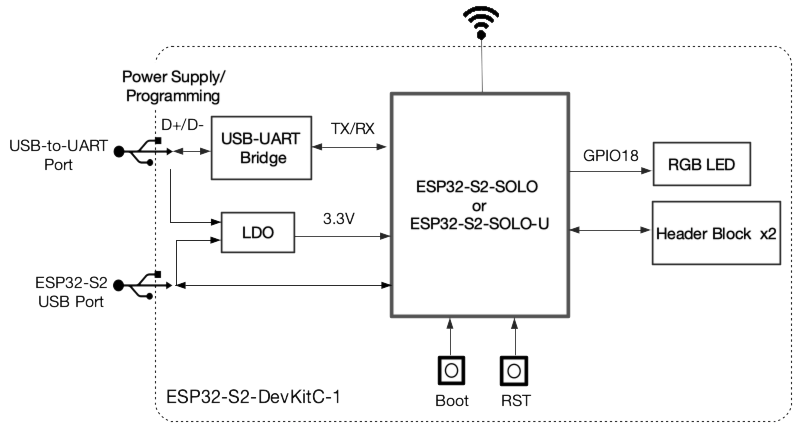
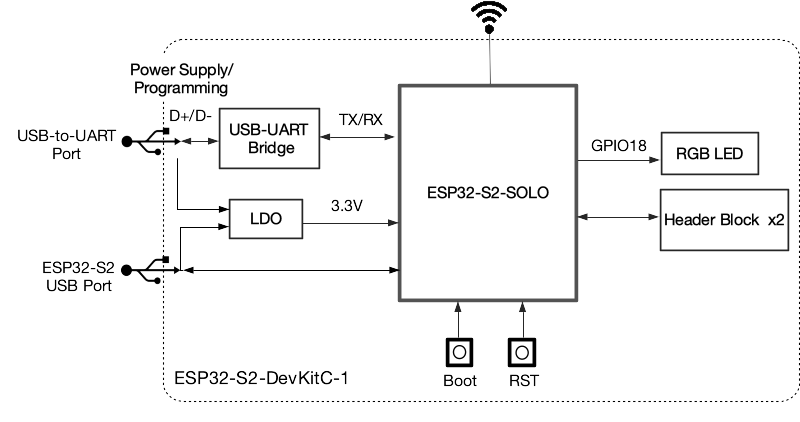
Docs: Updated ESP32-S2-DevKitC-1 User Guide for ECO1

diff --git a/docs/en/hw-reference/esp32s2/user-guide-s2-devkitc-1.rst b/docs/en/hw-reference/esp32s2/user-guide-s2-devkitc-1.rst
@@ -6,9 +6,7 @@ ESP32-S2-DevKitC-1
 
 This user guide will help you get started with ESP32-S2-DevKitC-1 and will also provide more in-depth information.
 
-ESP32-S2-DevKitC-1 is an entry-level development board based on ESP32-S2-SOLO (on-board PCB antenna) or ESP32-S2-SOLO-U (external antenna connector), which are two general-purpose modules with a 4 MB SPI flash. This board integrates complete Wi-Fi functions.
-
-Most of the I/O pins are broken out to the pin headers on both sides for easy interfacing. Developers can either connect peripherals with jumper wires or mount ESP32-S2-DevKitC-1 on a breadboard.
+ESP32-S2-DevKitC-1 is an entry-level development board. This board integrates complete Wi-Fi functions. Most of the I/O pins are broken out to the pin headers on both sides for easy interfacing. Developers can either connect peripherals with jumper wires or mount ESP32-S2-DevKitC-1 on a breadboard.
 
 .. figure:: ../../../_static/esp32-s2-devkitc-1-v1-isometric.png
     :align: center
@@ -49,8 +47,8 @@ The key components of the board are described in a clockwise direction.
 
    * - Key Component
      - Description
-   * - ESP32-S2-SOLO or ESP32-S2-SOLO-U
-     - ESP32-S2-SOLO and ESP32-S2-SOLO-U are two general-purpose Wi-Fi modules. ESP32-S2-SOLO comes with an on-board PCB antenna and ESP32-S2-SOLO-U comes with a connector for an external antenna. ESP32-S2-SOLO or ESP32-S2-SOLO-U on the board may come either with a 4 MB flash, or a 4 MB flash plus a 2 MB PSRAM embedded in the chip.
+   * - On-board module (ESP32-S2-SOLO or ESP32-S2-SOLO-U in the above figure)
+     - ESP32-S2-SOLO series modules with an on-board PCB antenna or a connector for an external antenna. This series of modules have multiple options for flash and PSRAM size. For more information, please refer to :ref:`user-guide-s2-devkitc-1-v1-ordering-info`.
    * - 3.3 V Power On LED
      - Turns on when the USB power is connected to the board.
    * - USB-to-UART Bridge
@@ -100,6 +98,59 @@ Please proceed to `ESP-IDF Get Started <https://docs.espressif.com/projects/esp-
 Contents and Packaging
 ----------------------
 
+.. _user-guide-s2-devkitc-1-v1-ordering-info:
+
+Ordering Information
+^^^^^^^^^^^^^^^^^^^^
+
+The development board has a variety of variants to choose from, as shown in the table below.
+
+.. list-table::
+   :header-rows: 1
+   :widths: 41 24 9 8 18
+
+   * - Ordering Code
+     - On-board Module [#]_
+     - Flash
+     - PSRAM
+     - Antenna
+   * - ESP32-S2-DevKitC-1-N8R2
+     - ESP32-S2-SOLO-2
+
+       (Recommended)
+     - 8 MB
+     - 2 MB
+     - PCB on-board antenna
+   * - ESP32-S2-DevKitC-1U-N8R2
+     - ESP32-S2-SOLO-2U
+
+       (Recommended)
+     - 8 MB
+     - 2 MB
+     - External antenna connector
+   * - ESP32-S2-DevKitC-1
+     - ESP32-S2-SOLO
+     - 4 MB
+     - ---
+     - PCB on-board antenna
+   * - ESP32-S2-DevKitC-1U
+     - ESP32-S2-SOLO-U
+     - 4 MB
+     - ---
+     - External antenna connector
+   * - ESP32-S2-DevKitC-1R
+     - ESP32-S2-SOLO
+     - 4 MB
+     - 2 MB
+     - PCB on-board antenna     
+   * - ESP32-S2-DevKitC-1RU
+     - ESP32-S2-SOLO-U
+     - 4 MB
+     - 2 MB
+     - External antenna connector
+
+.. [#] The ESP32-S2-SOLO-2 and ESP32-S2-SOLO-2U modules use chip revision v1.0, and the rest use chip revision v0.0. For more information about chip revisions, please refer to `ESP32-S2 Series SoC Errata`_.
+
 Retail orders
 ^^^^^^^^^^^^^
 
@@ -144,36 +195,36 @@ There are three mutually exclusive ways to provide power to the board:
 Header Block
 -------------
 
-The two tables below provide the **Name** and **Function** of the pin headers on both sides of the board (J1 and J3). The pin header names are shown in :ref:`user-guide-s2-devkitc-1-v1-board-front`. The numbering is the same as in the `ESP32-S2-DevKitC-1 Schematic <https://dl.espressif.com/dl/schematics/SCH_ESP32-S2-DEVKITC-1_V1_20210508.pdf>`_ (PDF).
+The two tables below provide the **Name** and **Function** of the pin headers on both sides of the board (J1 and J3). The pin header names are shown in :ref:`user-guide-s2-devkitc-1-v1-board-front`. The numbering is the same as in the `ESP32-S2-DevKitC-1 Schematic`_ (PDF).
 
 J1
 ^^^
-===  ====  ==========  ==========================================================================
-No.  Name  Type [#]_    Function
-===  ====  ==========  ==========================================================================
-1    3V3    P           3.3 V power supply
-2    3V3    P           3.3 V power supply
-3    RST    I           CHIP_PU
-4    4      I/O/T       RTC_GPIO4, GPIO4, TOUCH4, ADC1_CH3
-5    5      I/O/T       RTC_GPIO5, GPIO5, TOUCH5, ADC1_CH4
-6    6      I/O/T       RTC_GPIO6, GPIO6, TOUCH6, ADC1_CH5
-7    7      I/O/T       RTC_GPIO7, GPIO7, TOUCH7, ADC1_CH6
-8    15     I/O/T       RTC_GPIO15, GPIO15, U0RTS, ADC2_CH4, XTAL_32K_P
-9    16     I/O/T       RTC_GPIO16, GPIO16, U0CTS, ADC2_CH5, XTAL_32K_N
-10   17     I/O/T       RTC_GPIO17, GPIO17, U1TXD, ADC2_CH6, DAC_1
-11   18     I/O/T       RTC_GPIO18, GPIO18, U1RXD, ADC2_CH7, DAC_2, CLK_OUT3, RGB LED
-12   8      I/O/T       RTC_GPIO8, GPIO8, TOUCH8, ADC1_CH7
-13   3      I/O/T       RTC_GPIO3, GPIO3, TOUCH3, ADC1_CH2
-14   46     I           GPIO46
-15   9      I/O/T       RTC_GPIO9, GPIO9, TOUCH9, ADC1_CH8, FSPIHD
-16   10     I/O/T       RTC_GPIO10, GPIO10, TOUCH10, ADC1_CH9, FSPICS0, FSPIIO4
-17   11     I/O/T       RTC_GPIO11, GPIO11, TOUCH11, ADC2_CH0, FSPID, FSPIIO5
-18   12     I/O/T       RTC_GPIO12, GPIO12, TOUCH12, ADC2_CH1, FSPICLK, FSPIIO6
-19   13     I/O/T       RTC_GPIO13, GPIO13, TOUCH13, ADC2_CH2, FSPIQ, FSPIIO7
-20   14     I/O/T       RTC_GPIO14, GPIO14, TOUCH14, ADC2_CH3, FSPIWP, FSPIDQS
-21   5V     P           5 V power supply
-22   G      G           Ground
-===  ====  ==========  ==========================================================================
+===  =========  ==========  ==========================================================================
+No.  Name       Type [#]_    Function
+===  =========  ==========  ==========================================================================
+1    3V3         P           3.3 V power supply
+2    3V3         P           3.3 V power supply
+3    RST         I           CHIP_PU
+4    4           I/O/T       RTC_GPIO4, GPIO4, TOUCH4, ADC1_CH3
+5    5           I/O/T       RTC_GPIO5, GPIO5, TOUCH5, ADC1_CH4
+6    6           I/O/T       RTC_GPIO6, GPIO6, TOUCH6, ADC1_CH5
+7    7           I/O/T       RTC_GPIO7, GPIO7, TOUCH7, ADC1_CH6
+8    15          I/O/T       RTC_GPIO15, GPIO15, U0RTS, ADC2_CH4, XTAL_32K_P
+9    16          I/O/T       RTC_GPIO16, GPIO16, U0CTS, ADC2_CH5, XTAL_32K_N
+10   17          I/O/T       RTC_GPIO17, GPIO17, U1TXD, ADC2_CH6, DAC_1
+11   18 [#]_     I/O/T       RTC_GPIO18, GPIO18, U1RXD, ADC2_CH7, DAC_2, CLK_OUT3, RGB LED
+12   8           I/O/T       RTC_GPIO8, GPIO8, TOUCH8, ADC1_CH7
+13   3           I/O/T       RTC_GPIO3, GPIO3, TOUCH3, ADC1_CH2
+14   46          I           GPIO46
+15   9           I/O/T       RTC_GPIO9, GPIO9, TOUCH9, ADC1_CH8, FSPIHD
+16   10          I/O/T       RTC_GPIO10, GPIO10, TOUCH10, ADC1_CH9, FSPICS0, FSPIIO4
+17   11          I/O/T       RTC_GPIO11, GPIO11, TOUCH11, ADC2_CH0, FSPID, FSPIIO5
+18   12          I/O/T       RTC_GPIO12, GPIO12, TOUCH12, ADC2_CH1, FSPICLK, FSPIIO6
+19   13          I/O/T       RTC_GPIO13, GPIO13, TOUCH13, ADC2_CH2, FSPIQ, FSPIIO7
+20   14          I/O/T       RTC_GPIO14, GPIO14, TOUCH14, ADC2_CH3, FSPIWP, FSPIDQS
+21   5V          P           5 V power supply
+22   G           G           Ground
+===  =========  ==========  ==========================================================================
 
 
 J3
@@ -206,12 +257,13 @@ No.  Name  Type    Function
 ===  ====  =====   ============================================================
 
 .. [#] P: Power supply; I: Input; O: Output; T: High impedance.
+.. [#] GPIO18 is not pulled up on boards with an ESP32-S2-SOLO-2 or ESP32-S2-SOLO-2U module.
 
 Pin Layout
 ^^^^^^^^^^^
 .. figure:: ../../../_static/esp32-s2-devkitc-1-v1-pinout.png
     :align: center
-    :scale: 15%
+    :scale: 45%
     :alt: ESP32-S2-DevKitC-1 (click to enlarge)
     :figclass: align-center
 
@@ -224,11 +276,20 @@ This is the first revision of this board released.
 
 Related Documents
 =================
-* `ESP32-S2 Series Chip Datasheet <https://www.espressif.com/sites/default/files/documentation/esp32-s2_datasheet_en.pdf>`_ (PDF)
+
+* `ESP32-S2 Series Chip Revision v1.0 Datasheet`_ (PDF)
+* `ESP32-S2 Series Chip Revision v0.0 Datasheet <https://www.espressif.com/sites/default/files/documentation/esp32-s2_datasheet_en.pdf>`_ (PDF)
+* `ESP32-S2 Series SoC Errata`_ (PDF)
+* `ESP32-S2-SOLO-2 & ESP32-S2-SOLO-2U Module Datasheet <https://www.espressif.com/sites/default/files/documentation/esp32-s2-solo-2_esp32-s2-solo-2u_datasheet_en.pdf>`_ (PDF)
 * `ESP32-S2-SOLO & ESP32-S2-SOLO-U Module Datasheet <https://www.espressif.com/sites/default/files/documentation/esp32-s2-solo_esp32-s2-solo-u_datasheet_en.pdf>`_ (PDF)
-* `ESP32-S2-DevKitC-1 Schematic <https://dl.espressif.com/dl/schematics/SCH_ESP32-S2-DEVKITC-1_V1_20210508.pdf>`_ (PDF)
+* `ESP32-S2-DevKitC-1 Schematic`_ (PDF)
 * `ESP32-S2-DevKitC-1 PCB Layout <https://dl.espressif.com/dl/schematics/PCB_ESP32-S2-DevKitC-1_V1_20210508.pdf>`_ (PDF)
 * `ESP32-S2-DevKitC-1 Dimensions <https://dl.espressif.com/dl/schematics/DXF_ESP32-S2-DevKitC-1_V1_20210511.pdf>`_ (PDF)
 * `ESP32-S2-DevKitC-1 Dimensions source file <https://dl.espressif.com/dl/schematics/DXF_ESP32-S2-DevKitC-1_V1_20210511.dxf>`_ (DXF) - You can view it with `Autodesk Viewer <https://viewer.autodesk.com/>`_ online
 
 For further design documentation for the board, please contact us at `sales@espressif.com <sales@espressif.com>`_.
+
+.. _NRND: https://www.espressif.com/en/products/longevity-commitment?id=nrnd
+.. _ESP32-S2 Series Chip Revision v1.0 Datasheet: https://www.espressif.com/sites/default/files/documentation/esp32-s2-v1.0_datasheet_en.pdf
+.. _ESP32-S2 Series SoC Errata: https://espressif.com/sites/default/files/documentation/esp32-s2_errata_en.pdf
+.. _ESP32-S2-DevKitC-1 Schematic: https://dl.espressif.com/dl/schematics/esp-idf/SCH_ESP32-S2-DEVKITC-1_V1_20220817.pdf

diff --git a/docs/zh_CN/hw-reference/esp32s2/user-guide-s2-devkitc-1.rst b/docs/zh_CN/hw-reference/esp32s2/user-guide-s2-devkitc-1.rst
@@ -1,14 +1,12 @@
-===================
+==================
 ESP32-S2-DevKitC-1
-===================
+==================
 
 :link_to_translation:`en: [English]`
 
 本指南将帮助您快速上手 ESP32-S2-DevKitC-1，并提供该款开发板的详细信息。
 
-ESP32-S2-DevKitC-1 是一款入门级开发板，使用带有 4 MB SPI flash 的 ESP32-S2-SOLO（板载 PCB 天线）或 ESP32-S2-SOLO-U（外部天线连接器）模组。该款开发板具备完整的 Wi-Fi 功能。
-
-板上模组大部分管脚均已引出至两侧排针，开发人员可根据实际需求，轻松通过跳线连接多种外围设备，同时也可将开发板插在面包板上使用。
+ESP32-S2-DevKitC-1 是一款入门级开发板，具备完整的 Wi-Fi 功能。板上模组大部分管脚均已引出至两侧排针，开发人员可根据实际需求，轻松通过跳线连接多种外围设备，同时也可将开发板插在面包板上使用。
 
 .. figure:: ../../../_static/esp32-s2-devkitc-1-v1-isometric.png
     :align: center
@@ -49,8 +47,8 @@ ESP32-S2-DevKitC-1 是一款入门级开发板，使用带有 4 MB SPI flash 的
 
    * - 主要组件
      - 介绍
-   * - ESP32-S2-SOLO 或 ESP32-S2-SOLO-U
-     - ESP32-S2-SOLO 和 ESP32-S2-SOLO-U 是两款通用型 Wi-Fi 模组。ESP32-S2-SOLO 采用 PCB 板载天线，ESP32-S2-SOLO-U 采用连接器连接外部天线。开发板上的 ESP32-S2-SOLO 或 ESP32-S2-SOLO-U 模组可配置 4 MB flash，也可配置 4 MB flash 加 2 MB PSRAM（芯片内置）。
+   * - 板载模组（上图中为 ESP32-S2-SOLO 或 ESP32-S2-SOLO-U）
+     - ESP32-S2-SOLO 系列模组，可搭载 PCB 板载天线或外部天线连接器，支持多种 flash 和 PSRAM 大小。更多信息，详见 :ref:`user-guide-s2-devkitc-1-v1-ordering-info`。
    * - 3.3 V Power On LED（3.3 V 电源指示灯）
      - 开发板连接 USB 电源后，该指示灯亮起。
    * - USB-to-UART Bridge（USB 转 UART 桥接器）
@@ -100,6 +98,59 @@ ESP32-S2-DevKitC-1 是一款入门级开发板，使用带有 4 MB SPI flash 的
 内含组件和包装
 --------------
 
+.. _user-guide-s2-devkitc-1-v1-ordering-info:
+
+订购信息
+^^^^^^^^
+
+该开发板有多种型号可供选择，详见下表。
+
+.. list-table::
+   :header-rows: 1
+   :widths: 35 25 10 10 20
+
+   * - 订购代码
+     - 搭载模组 [#]_
+     - Flash
+     - PSRAM
+     - 天线
+   * - ESP32-S2-DevKitC-1-N8R2
+     - ESP32-S2-SOLO-2
+
+       （推荐）
+     - 8 MB
+     - 2 MB
+     - PCB 板载天线
+   * - ESP32-S2-DevKitC-1U-N8R2
+     - ESP32-S2-SOLO-2U
+
+       （推荐）
+     - 8 MB
+     - 2 MB
+     - 外部天线连接器
+   * - ESP32-S2-DevKitC-1
+     - ESP32-S2-SOLO
+     - 4 MB
+     - ---
+     - PCB 板载天线
+   * - ESP32-S2-DevKitC-1U
+     - ESP32-S2-SOLO-U
+     - 4 MB
+     - ---
+     - 外部天线连接器
+   * - ESP32-S2-DevKitC-1R
+     - ESP32-S2-SOLO
+     - 4 MB
+     - 2 MB
+     - PCB 板载天线     
+   * - ESP32-S2-DevKitC-1RU
+     - ESP32-S2-SOLO-U
+     - 4 MB
+     - 2 MB
+     - 外部天线连接器
+
+.. [#] ESP32-S2-SOLO-2 和 ESP32-S2-SOLO-2U 模组使用 v1.0 版本芯片，其余模组使用 v0.0 版本芯片。更多关于芯片版本的信息，请参考 `《ESP32-S2 系列芯片勘误表》`_。
+
 零售订单
 ^^^^^^^^
 
@@ -144,36 +195,36 @@ ESP32-S2-DevKitC-1 的主要组件和连接方式如下图所示。
 排针 
 ---- 
  
-下表列出了开发板两侧排针（J1 和 J3）的 **名称** 和 **功能**，排针的名称如图 :ref:`user-guide-s2-devkitc-1-v1-board-front` 所示，排针的序号与 `ESP32-S2-DevKitC-1 原理图 <https://dl.espressif.com/dl/schematics/SCH_ESP32-S2-DEVKITC-1_V1_20210508.pdf>`_ (PDF) 一致。 
+下表列出了开发板两侧排针（J1 和 J3）的 **名称** 和 **功能**，排针的名称如图 :ref:`user-guide-s2-devkitc-1-v1-board-front` 所示，排针的序号与 `ESP32-S2-DevKitC-1 原理图`_ (PDF) 一致。 
 
 J1 
 ^^^ 
-==== ====  =========   =========================================================================
-序号 名称  类型 [#]_    功能
-==== ====  =========   =========================================================================
-1    3V3    P          3.3 V 电源
-2    3V3    P          3.3 V 电源
-3    RST    I          CHIP_PU
-4    4      I/O/T      RTC_GPIO4, GPIO4, TOUCH4, ADC1_CH3
-5    5      I/O/T      RTC_GPIO5, GPIO5, TOUCH5, ADC1_CH4
-6    6      I/O/T      RTC_GPIO6, GPIO6, TOUCH6, ADC1_CH5
-7    7      I/O/T      RTC_GPIO7, GPIO7, TOUCH7, ADC1_CH6
-8    15     I/O/T      RTC_GPIO15, GPIO15, U0RTS, ADC2_CH4, XTAL_32K_P
-9    16     I/O/T      RTC_GPIO16, GPIO16, U0CTS, ADC2_CH5, XTAL_32K_N
-10   17     I/O/T      RTC_GPIO17, GPIO17, U1TXD, ADC2_CH6, DAC_1
-11   18     I/O/T      RTC_GPIO18, GPIO18, U1RXD, ADC2_CH7, DAC_2, CLK_OUT3, RGB LED
-12   8      I/O/T      RTC_GPIO8, GPIO8, TOUCH8, ADC1_CH7
-13   3      I/O/T      RTC_GPIO3, GPIO3, TOUCH3, ADC1_CH2
-14   46     I          GPIO46
-15   9      I/O/T      RTC_GPIO9, GPIO9, TOUCH9, ADC1_CH8, FSPIHD
-16   10     I/O/T      RTC_GPIO10, GPIO10, TOUCH10, ADC1_CH9, FSPICS0, FSPIIO4
-17   11     I/O/T      RTC_GPIO11, GPIO11, TOUCH11, ADC2_CH0, FSPID, FSPIIO5
-18   12     I/O/T      RTC_GPIO12, GPIO12, TOUCH12, ADC2_CH1, FSPICLK, FSPIIO6
-19   13     I/O/T      RTC_GPIO13, GPIO13, TOUCH13, ADC2_CH2, FSPIQ, FSPIIO7
-20   14     I/O/T      RTC_GPIO14, GPIO14, TOUCH14, ADC2_CH3, FSPIWP, FSPIDQS
-21   5V     P          5 V 电源
-22   G      G          接地
-==== ====  =========   =========================================================================
+==== =========  =========   =========================================================================
+序号 名称       类型 [#]_    功能
+==== =========  =========   =========================================================================
+1    3V3         P          3.3 V 电源
+2    3V3         P          3.3 V 电源
+3    RST         I          CHIP_PU
+4    4           I/O/T      RTC_GPIO4, GPIO4, TOUCH4, ADC1_CH3
+5    5           I/O/T      RTC_GPIO5, GPIO5, TOUCH5, ADC1_CH4
+6    6           I/O/T      RTC_GPIO6, GPIO6, TOUCH6, ADC1_CH5
+7    7           I/O/T      RTC_GPIO7, GPIO7, TOUCH7, ADC1_CH6
+8    15          I/O/T      RTC_GPIO15, GPIO15, U0RTS, ADC2_CH4, XTAL_32K_P
+9    16          I/O/T      RTC_GPIO16, GPIO16, U0CTS, ADC2_CH5, XTAL_32K_N
+10   17          I/O/T      RTC_GPIO17, GPIO17, U1TXD, ADC2_CH6, DAC_1
+11   18 [#]_     I/O/T      RTC_GPIO18, GPIO18[#]_, U1RXD, ADC2_CH7, DAC_2, CLK_OUT3, RGB LED
+12   8           I/O/T      RTC_GPIO8, GPIO8, TOUCH8, ADC1_CH7
+13   3           I/O/T      RTC_GPIO3, GPIO3, TOUCH3, ADC1_CH2
+14   46          I          GPIO46
+15   9           I/O/T      RTC_GPIO9, GPIO9, TOUCH9, ADC1_CH8, FSPIHD
+16   10          I/O/T      RTC_GPIO10, GPIO10, TOUCH10, ADC1_CH9, FSPICS0, FSPIIO4
+17   11          I/O/T      RTC_GPIO11, GPIO11, TOUCH11, ADC2_CH0, FSPID, FSPIIO5
+18   12          I/O/T      RTC_GPIO12, GPIO12, TOUCH12, ADC2_CH1, FSPICLK, FSPIIO6
+19   13          I/O/T      RTC_GPIO13, GPIO13, TOUCH13, ADC2_CH2, FSPIQ, FSPIIO7
+20   14          I/O/T      RTC_GPIO14, GPIO14, TOUCH14, ADC2_CH3, FSPIWP, FSPIDQS
+21   5V          P          5 V 电源
+22   G           G          接地
+==== =========  =========   =========================================================================
  
 J3 
 ^^^ 
@@ -205,13 +256,14 @@ J3
 22    G     G      接地
 ====  ====  =====  ================================================================ 
 
-.. [#] P：电源；I：输入；O：输出；T：可设置为高阻。 
+.. [#] P：电源；I：输入；O：输出；T：可设置为高阻。
+.. [#] 搭载 ESP32-S2-SOLO-2 或 ESP32-S2-SOLO-2U 的开发板未上拉 GPIO18。
 
 管脚布局
 ^^^^^^^^
 .. figure:: ../../../_static/esp32-s2-devkitc-1-v1-pinout.png
     :align: center
-    :scale: 15%
+    :scale: 45%
     :alt: ESP32-S2-DevKitC-1 管脚布局（点击放大）
     :figclass: align-center
 
@@ -224,11 +276,20 @@ J3
 
 相关文档
 ========
-* `ESP32-S2 系列芯片规格书 <https://www.espressif.com/sites/default/files/documentation/esp32-s2_datasheet_cn.pdf>`_ (PDF)
-* `ESP32-S2-SOLO & ESP32-S2-SOLO-U 模组技术规格书 <https://www.espressif.com/sites/default/files/documentation/esp32-s2-solo_esp32-s2-solo-u_datasheet_cn.pdf>`_ (PDF)
-* `ESP32-S2-DevKitC-1 原理图 <https://dl.espressif.com/dl/schematics/SCH_ESP32-S2-DEVKITC-1_V1_20210508.pdf>`_ (PDF)
+
+* `ESP32-S2 系列芯片 v1.0 版本技术规格书`_ (PDF)
+* `ESP32-S2 系列芯片 v0.0 版本技术规格书 <https://www.espressif.com/sites/default/files/documentation/esp32-s2_datasheet_cn.pdf>`_ (PDF)
+* `《ESP32-S2 系列芯片勘误表》`_ (PDF)
+* `《ESP32-S2-SOLO-2 & ESP32-S2-SOLO-2U 模组技术规格书》 <https://www.espressif.com/sites/default/files/documentation/esp32-s2-solo-2_esp32-s2-solo-2u_datasheet_cn.pdf>`_ (PDF)
+* `《ESP32-S2-SOLO & ESP32-S2-SOLO-U 模组技术规格书》 <https://www.espressif.com/sites/default/files/documentation/esp32-s2-solo_esp32-s2-solo-u_datasheet_cn.pdf>`_ (PDF)
+* `ESP32-S2-DevKitC-1 原理图`_ (PDF)
 * `ESP32-S2-DevKitC-1 PCB 布局图 <https://dl.espressif.com/dl/schematics/PCB_ESP32-S2-DevKitC-1_V1_20210508.pdf>`_ (PDF)
 * `ESP32-S2-DevKitC-1 尺寸图 <https://dl.espressif.com/dl/schematics/DXF_ESP32-S2-DevKitC-1_V1_20210511.pdf>`_ (PDF)
 * `ESP32-S2-DevKitC-1 尺寸图源文件 <https://dl.espressif.com/dl/schematics/DXF_ESP32-S2-DevKitC-1_V1_20210511.dxf>`_ (DXF) - 可使用 `Autodesk Viewer <https://viewer.autodesk.com/>`_ 查看
 
 有关本开发板的更多设计文档，请联系我们的商务部门 `sales@espressif.com <sales@espressif.com>`_。
+
+.. _不推荐用于新设计: https://www.espressif.com/zh-hans/products/longevity-commitment
+.. _ESP32-S2 系列芯片 v1.0 版本技术规格书: https://www.espressif.com/sites/default/files/documentation/esp32-s2-v1.0_datasheet_cn.pdf
+.. _《ESP32-S2 系列芯片勘误表》: https://espressif.com/sites/default/files/documentation/esp32-s2_errata_cn.pdf
+.. _ESP32-S2-DevKitC-1 原理图: https://dl.espressif.com/dl/schematics/esp-idf/SCH_ESP32-S2-DEVKITC-1_V1_20220817.pdf
